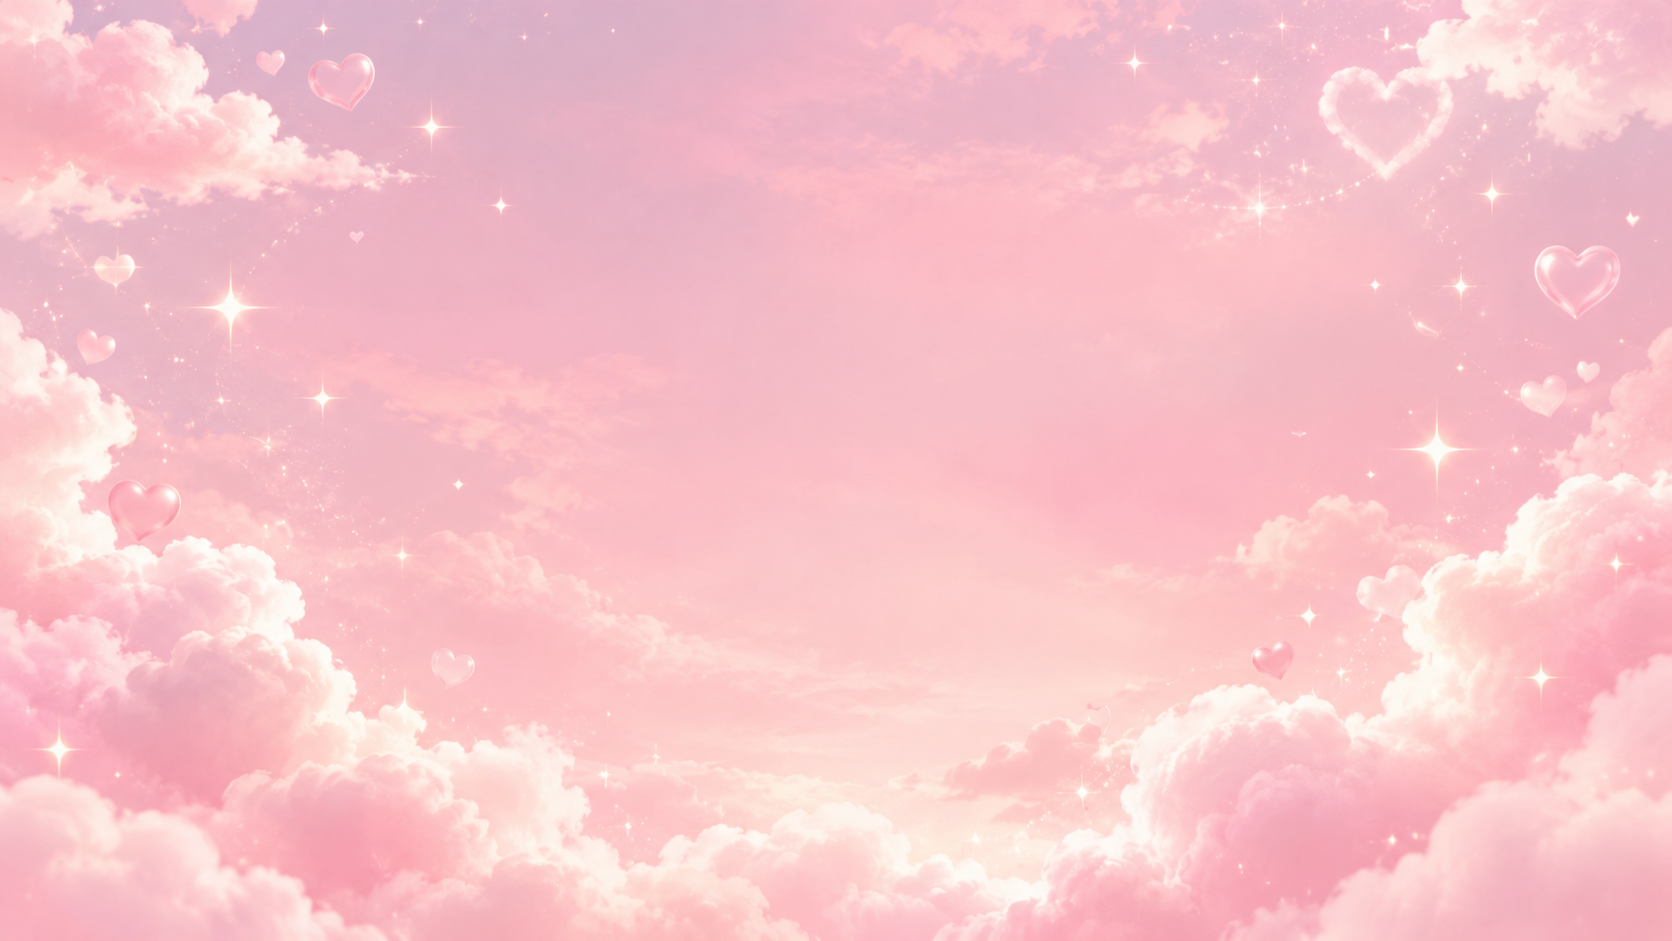
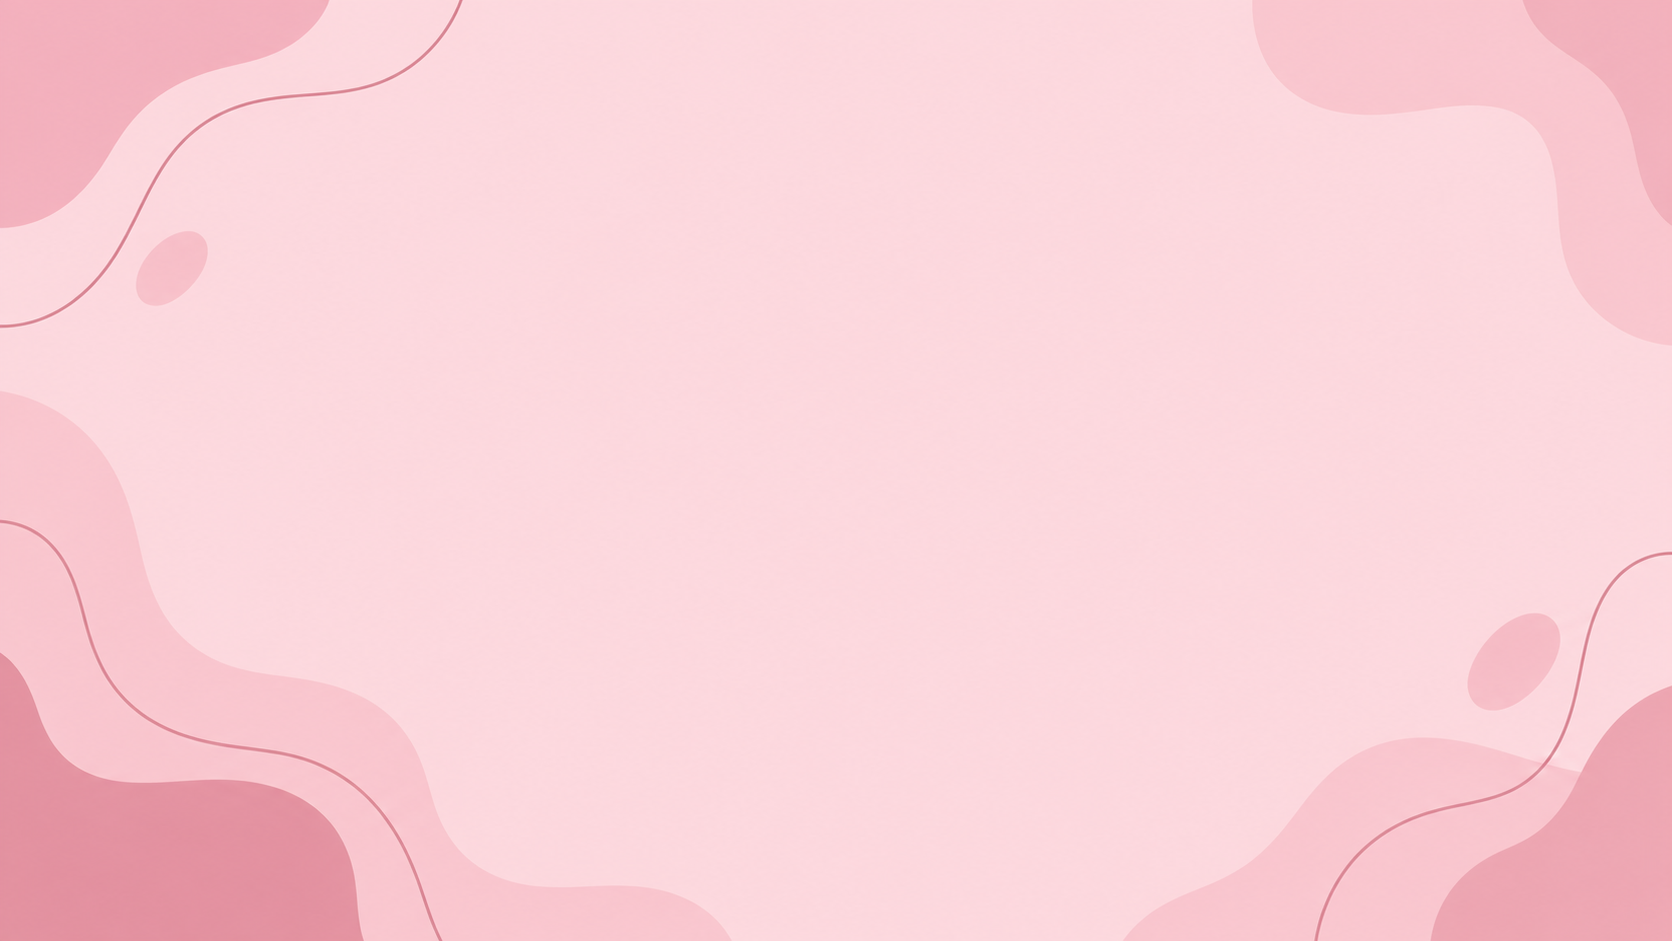
adding the high score feature

diff --git a/app.js b/app.js
@@ -7,6 +7,7 @@ const timeElement = document.querySelector('#timer')
 const cardboardElement = document.querySelectorAll('.board-card')
 const messageElement = document.querySelector('#message');
 const playerNameElement = document.querySelector('#player-name');
+const highScoreElement = document.querySelector('#high-score');
 // console.log(restartButtonElement)
 // console.log(PairCountElement)
 // console.log(movesElement)
@@ -19,10 +20,10 @@ console.log(cardboardElement)
 // 3. the event listener should call the chooseCard function()
 
 const emojis = [
-    "🩷", "🧸", "🍁",
-    "🫖", "🍰", "💌",
-    "🩷", "🧸", "🍁",
-    "🫖", "🍰", "💌"
+    "🌻", "🧸", "🧁",
+    "🕯", "🍰", "💌",
+    "🌻", "🧸", "🧁",
+    "🕯", "🍰", "💌"
 ];
 //vriables to stroe the cards
 let firstcard = null;
@@ -30,6 +31,7 @@ let secondcard = null;
 let firstcardElement = null;
 let secondcardElement = null;
 let timerInterval
+let highscore=0;
 let playerName = '' ;
 let moves = 0;
 let pairs = 0;
@@ -48,7 +50,7 @@ function startTimer() {
 
         clearInterval(timerInterval);
 
-        messageElement.textContent = "⏰ Time's Up" +''+ playerName + "!";
+        messageElement.textContent = "⏰ Time's Up" +" "+ playerName + "!";
      
     }
 
@@ -65,7 +67,7 @@ function startGame() {
     }
 
   
- messageElement.textContent = `Good Luck ${playerName} ❤`;
+ messageElement.textContent = `Good Luck ${playerName} ✿`;
     cardboardElement.forEach((card) => {
     card.addEventListener('click', handleClick);
 });
@@ -84,7 +86,7 @@ function chooseCard(event) {
 
 
     // to not allow choosing the same card twice 
-    if (event.target.textContent !== '♡') {
+    if (event.target.textContent !== '🌸') {
         return
     }
 
@@ -127,8 +129,19 @@ function chooseCard(event) {
             secondcardElement = null
 
             if (pairs === 6) {
-                messageElement.textContent =
-                    `🎉 Congratulations!" ${playerName}! You found all pairs!`;
+                if (pairs === 6) {
+
+    messageElement.textContent =
+        `🎉 Congratulations ${playerName} You found all pairs!`;
+
+    if (highscore === 0 || moves< highscore) {
+
+        highscore = moves;
+        highScoreElement.textContent = highscore;
+
+    }
+}
+
             }
 
 
@@ -141,8 +154,8 @@ function chooseCard(event) {
 
             setTimeout(() => {
 
-                firstcardElement.textContent = '♡';
-                secondcardElement.textContent = '♡';
+                firstcardElement.textContent = '🌸';
+                secondcardElement.textContent = '🌸';
 
                 firstcard = null;
                 secondcard = null;
@@ -183,7 +196,7 @@ function restartGame() {
 
 function resetCards(){
     for(let card of cardboardElement){
-        card.textContent = '♡'
+        card.textContent = '🌸'
     }
 }
 

diff --git a/style.css b/style.css
@@ -3,7 +3,7 @@
 
 * {
     margin: 0;
-    padding: 0;
+    padding: 0px;
     box-sizing: border-box;
 }
 
@@ -11,11 +11,22 @@
 body {
     min-height: 100vh;
     background-image: url("image.png");
+    background-position: center;
+    background-size: 100% 100%;
+    background-attachment: fixed;
+    animation:backgroundzoom 8s ease-in-out infinite alternate;
     font-family: Arial, sans-serif;
     color: #555;
     padding: 20px;
 }
-
+@keyframes backgroundzoom{
+from{
+     background-size: 100% 100%;
+}
+to {
+      background-size: 110% 110%;
+}
+}
 .game-container {
     max-width: 900px;
     margin: auto;
@@ -28,17 +39,18 @@ body {
 }
 
 .subtitle {
-    color: #c990ac;
+    color: #cb7682;
     margin-bottom: 10px;
 }
 
 .game-header h1 {
-    color: #e45aa5;
+    color:#cb7f8a;
     margin-bottom: 10px;
 }
 
 .instructions {
-    color: #666;
+    color: #915d5d;
+    margin-bottom: 10px;
 }
 
 
@@ -67,20 +79,29 @@ body {
 #timer,
 #moves,
 #pairs {
-    color: #e45aa5;
+    color: #E392A1;
     font-size: 1.5rem;
     font-weight: bold;
 }
 
+
+#high-score {
+    font-size: 20px;
+    font-weight: bold;
+    color: #E392A1;
+}
+
+
 .player-name {
     margin-bottom: 20px;
     text-align: center;
+    color:#cb7f8a;
 }
 
 .player-name label {
     display: block;
     margin-bottom: 8px;
-    color:   #b86f94;
+    color:   #cb7f8a;
     font-weight: bold;
 }
 
@@ -93,6 +114,7 @@ body {
     text-align: center;
     outline: none;
     background-color: #fffafc;
+    color: #b14775;
 }
 
 .player-name input:focus {
@@ -115,7 +137,7 @@ body {
     width: 90px;
     height: 90px;
 
-    background-color: #f9d3e3;
+    background-color:#FAC6CE;
 
     border-radius: 15px;
     border: none;
@@ -131,7 +153,7 @@ body {
 }
 
 .board-card:hover {
-    background-color: #f5bfd5;
+    background-color: hsl(342, 84%, 87%);
     transform: scale(1.05);
 }
 
@@ -139,11 +161,11 @@ body {
 
 .message {
     margin: 20px 0;
-    color: #b86f94;
+    color:  #E392A1;
 }
 
 .start-button {
-    background-color: #e45aa5;
+    background-color: #E392A1;
     color: white;
 
     border: none;
@@ -155,10 +177,13 @@ body {
     font-size: 1rem;
 }
 
+.start-button:hover {
+    background-color: #FAC6CF;
+}
 
 
 .restart-button {
-    background-color: #e45aa5;
+    background-color: #E392A1;
     color: white;
 
     border: none;
@@ -171,7 +196,7 @@ body {
 }
 
 .restart-button:hover {
-    background-color: #d74895;
+    background-color: #FAC6CF;
 }
 
 

diff --git a/index.html b/index.html
@@ -13,7 +13,6 @@
 
     
     <body>
-
     <main class="game-container">
 
         <!-- Game Header -->
@@ -27,7 +26,7 @@
             </p>
 
             <div class="player-name">
-    <label for="player-name">Player Name</label>
+    <label for="player-name">✿Player Name✿</label>
     <input
         type="text"
         id="player-name"
@@ -54,6 +53,11 @@
                 <span id="pairs">0 / 6</span>
             </div>
 
+            <div class="stat">
+    <span class="stat-label">High Score</span>
+    <span id="high-score">0</span>
+</div>
+
         </section>
 
         <!-- Memory Cards -->
@@ -63,18 +67,18 @@
             aria-label="Memory card game board"
         >
           <section class="board">
-        <div id="card-1" class="board-card">♡</div>
-        <div id="card-2" class="board-card">♡</div>
-        <div id="card-3" class="board-card">♡</div>
-        <div id="card-4" class="board-card">♡</div>
-        <div id="card-5" class="board-card">♡</div>
-        <div id="card-6" class="board-card">♡</div>
-        <div id="card-7" class="board-card">♡</div>
-        <div id="card-8" class="board-card">♡</div>
-        <div id="card-9" class="board-card">♡</div>
-        <div id="card-10" class="board-card">♡</div>
-        <div id="card-11" class="board-card">♡</div>
-        <div id="card-12" class="board-card">♡</div>
+        <div id="card-1" class="board-card">🌸</div>
+        <div id="card-2" class="board-card">🌸</div>
+        <div id="card-3" class="board-card">🌸</div>
+        <div id="card-4" class="board-card">🌸</div>
+        <div id="card-5" class="board-card">🌸</div>
+        <div id="card-6" class="board-card">🌸</div>
+        <div id="card-7" class="board-card">🌸</div>
+        <div id="card-8" class="board-card">🌸</div>
+        <div id="card-9" class="board-card">🌸</div>
+        <div id="card-10" class="board-card">🌸</div>
+        <div id="card-11" class="board-card">🌸</div>
+        <div id="card-12" class="board-card">🌸</div>
           </section>  <!-- JavaScript will create the cards here -->
         </section>
 
